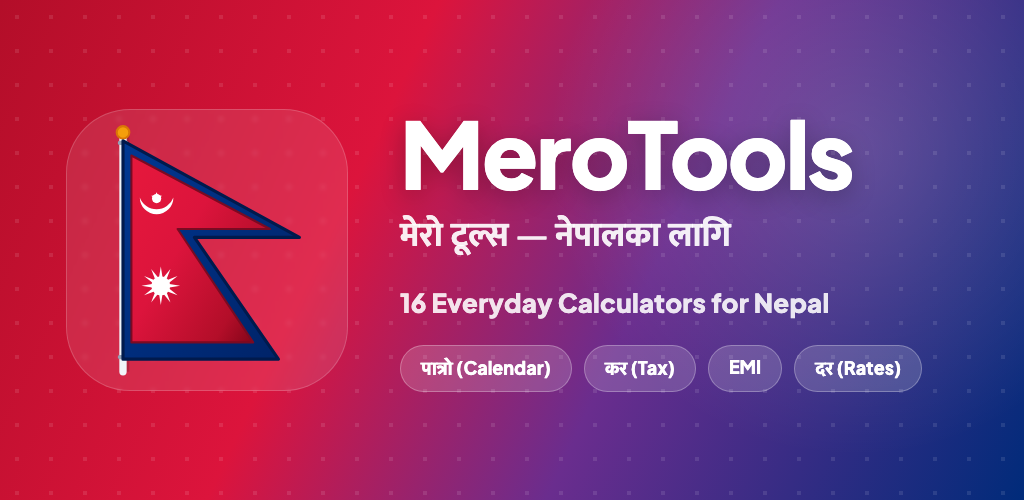
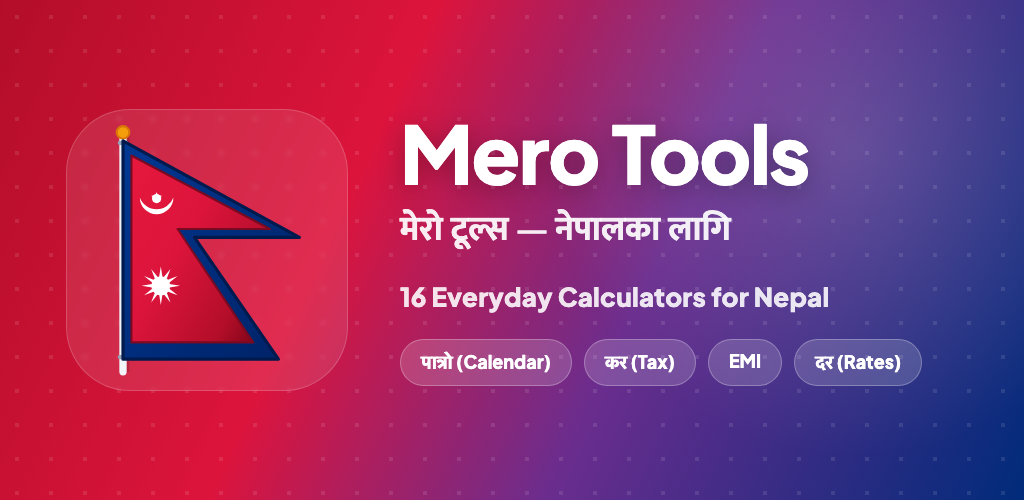
Add release signing config and Play Store release notes
- android/app/build.gradle: read release keystore credentials from
  environment variables only (never written to a file in-repo).
- RELEASE.md: reference doc for the Play Store release process,
  toolchain setup, and current release checklist.
- Refresh Play Store feature graphic and add a 512px app icon.

diff --git a/RELEASE.md b/RELEASE.md
@@ -1,0 +1,92 @@
+# Mero Tools — Android Release Notes
+
+Reference doc for taking this app to the Play Store. Written 2026-08-24.
+
+## App identity
+
+| | |
+|---|---|
+| Package / Application ID | `np.com.kumarusnil.merotools` |
+| App name | Mero Tools |
+| Current version | `1.0.0` (versionCode `1`) |
+| Min SDK / Target SDK | 24 / 36 |
+
+## Local toolchain (already installed on this Mac)
+
+Nothing here existed before this project — needed for any future local Android build:
+
+- JDK 17 (`brew install openjdk@17`) — used for the Android SDK command-line tools themselves
+- JDK 21 (`brew install openjdk@21`) — required by Capacitor's Android module to compile; this is the one `JAVA_HOME` must point to for Gradle builds
+- Android SDK command-line tools (`brew install --cask android-commandlinetools`), installed to `/opt/homebrew/share/android-commandlinetools`
+- Installed SDK packages: `platform-tools`, `platforms;android-36`, `build-tools;36.0.0`
+
+Env vars needed before any Gradle command:
+```bash
+export JAVA_HOME=/opt/homebrew/opt/openjdk@21/libexec/openjdk.jdk/Contents/Home
+export PATH="$JAVA_HOME/bin:$PATH"
+export ANDROID_HOME=/opt/homebrew/share/android-commandlinetools
+```
+
+## Signing key
+
+- Keystore file: `/Users/sk/meroTools/android-signing-keys/merotools-release.jks` — **lives outside this git repo on purpose**, never committed
+- Key alias: `merotools`
+- Password: generated once and shown to you in chat — **make sure it's in a password manager**. It is not written anywhere in this repo or on disk in plaintext. If it's lost, this listing can never be updated again under the same signing identity; you'd have to publish as a new app.
+- Certificate fingerprints (Play Console may ask for these):
+  - SHA1: `73:2B:FF:C4:4A:4B:ED:E2:A4:88:8A:80:3F:63:A8:A7:B5:AF:E2:D3`
+  - SHA256: `72:F8:13:F5:52:A4:7A:73:96:8D:C0:A5:98:AB:68:54:B2:45:B8:69:0B:9A:19:79:00:CF:32:4B:0F:27:37:0E`
+  - Expires: 2054-01-09
+
+Release signing config (`android/app/build.gradle`) reads the password from environment variables only — it is never written to a file in this project.
+
+## Build commands
+
+```bash
+# one-time env setup (every new terminal session)
+export JAVA_HOME=/opt/homebrew/opt/openjdk@21/libexec/openjdk.jdk/Contents/Home
+export PATH="$JAVA_HOME/bin:$PATH"
+export ANDROID_HOME=/opt/homebrew/share/android-commandlinetools
+
+# debug APK — for sideloading onto your own phone to test
+npm run android:sync && cd android && ./gradlew assembleDebug
+# → android/app/build/outputs/apk/debug/app-debug.apk
+
+# signed release AAB — what you upload to Play Console
+export MEROTOOLS_KEYSTORE_PATH="/Users/sk/meroTools/android-signing-keys/merotools-release.jks"
+export MEROTOOLS_KEYSTORE_PASSWORD='<your password from the password manager>'
+export MEROTOOLS_KEY_ALIAS="merotools"
+export MEROTOOLS_KEY_PASSWORD='<same password>'
+npm run android:sync && cd android && ./gradlew bundleRelease
+# → android/app/build/outputs/bundle/release/app-release.aab
+
+# bump version before a new release (patch/minor/major)
+npm run android:version -- patch
+```
+
+## Done
+
+- [x] Capacitor Android project scaffolded, icons + splash generated from in-app flag art
+- [x] Bundle size cut 510 KB → 282 KB main chunk via lazy-loading all 16 tools
+- [x] UI bugs fixed: calendar dark-mode cell background, tool-page back button hiding titles
+- [x] Tailwind v4 dark-mode bug fixed (manual Light/Dark/System toggle was a no-op before this)
+- [x] Forex API bug fixed (NRB API call was missing required `from`/`to` date params — guaranteed 400 before)
+- [x] Privacy Policy built into the app as a real page (`src/components/PrivacyPolicyPage.tsx`), reachable via `#privacy` on a fresh load with no server config needed
+- [x] Feature graphic generated (`assets/feature-graphic.png`, 1024×500)
+- [x] Debug APK built and tested on a real device
+- [x] Signed release AAB built and signature-verified
+- [x] Versioning convention in place (`npm run android:version`)
+- [x] Changes committed to git
+
+## Still pending — outside this repo
+
+1. **Host the web app publicly.** Play Console requires the privacy policy as a URL it can visit from outside the app — `https://your-domain/#privacy` once hosted. You said you'd handle hosting yourself; send me the URL once it's live and I'll verify the link resolves correctly.
+2. **Play Console store listing** — title, short/full description, category, contact email, screenshots (at least 2 phone screenshots — can generate these from the running app on request), the feature graphic (ready), content rating questionnaire, and the Data Safety form (should be simple and honest: no personal data collected, no accounts, no analytics/ads SDKs — everything is local storage or public rate APIs).
+3. Recommended: run the AAB through an **internal testing track** first before a public production release.
+4. **Push local git commits to `origin`** — was left pending, not yet done.
+
+## Known non-blocking notes
+
+- Gold/Silver tool's "Live" badge is cosmetic — `src/services/metals.ts` never actually fetches live rates, just relabels cached/default data with a fresh timestamp. Not broken, just not truthfully "live." Worth fixing before public launch if accuracy matters to you.
+- `package.json` still lists unused leftovers from the original AI Studio template (`@google/genai`, `express`, `dotenv`, `tsx`) — none are imported anywhere in `src/`. Safe to remove, just hasn't been asked for.
+- `README.md` and `metadata.json` still describe the AI-Studio/Gemini starter template rather than this app.
+- `minifyEnabled` is `false` on the release build type — turning on R8/ProGuard would shrink the AAB further; optional, untested.
